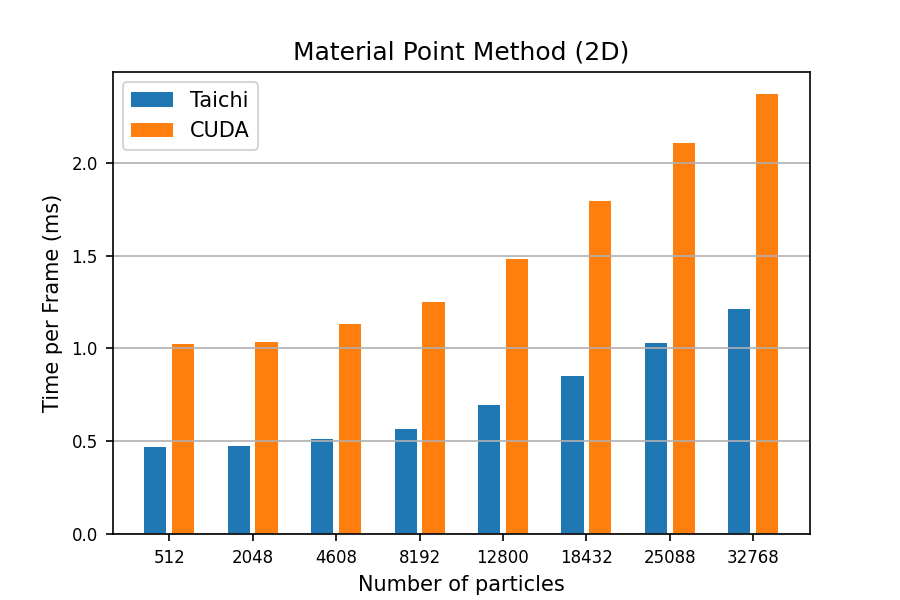
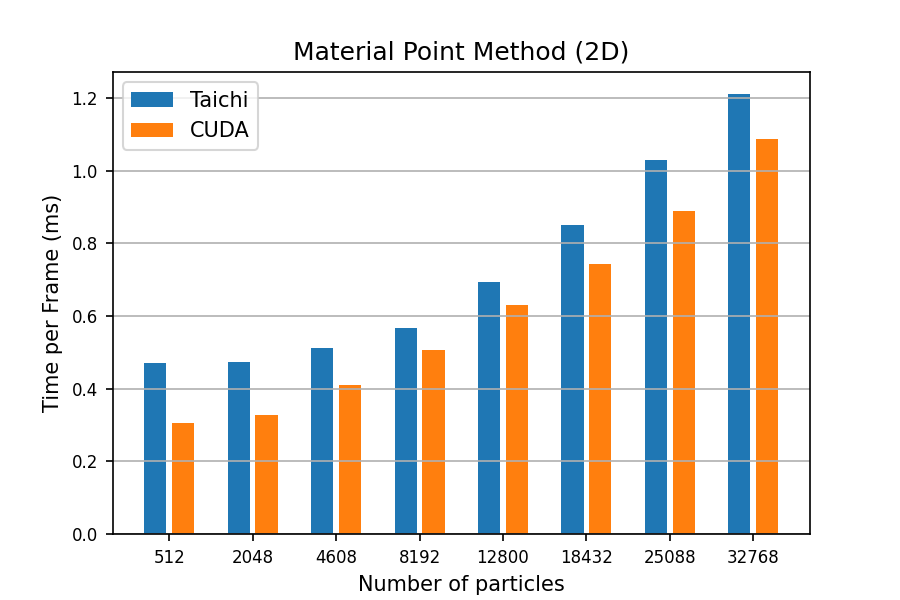
Update mpm results on improved cuda baseline

Changed region(s): [[0.0622, 0.15, 0.9022, 0.78], [0.0622, 0.15, 0.1244, 0.18]]

diff --git a/mpm/misc.py b/mpm/misc.py
@@ -1,55 +1,4 @@
-cuda_sample_results = {
-    'cuda_2d': [{
-        'n_particles': 512,
-        'time_ms': 1.024374
-    }, {
-        'n_particles': 2048,
-        'time_ms': 1.033906
-    }, {
-        'n_particles': 4608,
-        'time_ms': 1.13101
-    }, {
-        'n_particles': 8192,
-        'time_ms': 1.24747
-    }, {
-        'n_particles': 12800,
-        'time_ms': 1.484127
-    }, {
-        'n_particles': 18432,
-        'time_ms': 1.791808
-    }, {
-        'n_particles': 25088,
-        'time_ms': 2.105247
-    }, {
-        'n_particles': 32768,
-        'time_ms': 2.370462
-    }],
-    'cuda_3d': [{
-        'n_particles': 8192,
-        'time_ms': 2.70262
-    }, {
-        'n_particles': 65536,
-        'time_ms': 8.443884
-    }, {
-        'n_particles': 221184,
-        'time_ms': 36.317848
-    }, {
-        'n_particles': 524288,
-        'time_ms': 174.325989
-    }, {
-        'n_particles': 1024000,
-        'time_ms': 565.163757
-    }, {
-        'n_particles': 1769472,
-        'time_ms': 1228.022095
-    }, {
-        'n_particles': 2809856,
-        'time_ms': 2252.36377
-    }, {
-        'n_particles': 4194304,
-        'time_ms': 3472.967773
-    }]
-}
+cuda_sample_results = {'cuda_2d': [{'n_particles': 512, 'time_ms': 0.306909}, {'n_particles': 2048, 'time_ms': 0.328294}, {'n_particles': 4608, 'time_ms': 0.411246}, {'n_particles': 8192, 'time_ms': 0.506373}, {'n_particles': 12800, 'time_ms': 0.631633}, {'n_particles': 18432, 'time_ms': 0.74418}, {'n_particles': 25088, 'time_ms': 0.889422}, {'n_particles': 32768, 'time_ms': 1.087441}], 'cuda_3d': [{'n_particles': 8192, 'time_ms': 0.941462}, {'n_particles': 65536, 'time_ms': 5.481499}, {'n_particles': 221184, 'time_ms': 21.760391}, {'n_particles': 524288, 'time_ms': 99.960159}, {'n_particles': 1024000, 'time_ms': 343.911346}, {'n_particles': 1769472, 'time_ms': 831.018188}, {'n_particles': 2809856, 'time_ms': 1670.747681}, {'n_particles': 4194304, 'time_ms': 2585.545654}]}
 
 taichi_sample_results = {
     'taichi_2d': [{

diff --git a/mpm/plot_benchmark.py b/mpm/plot_benchmark.py
@@ -66,4 +66,4 @@ if __name__ == '__main__':
         taichi_results = taichi_sample_results
     else:
         taichi_results, cuda_results = run_benchmarks()
-    plot_bar(cuda_results, taichi_results, "3d")
+    plot_bar(cuda_results, taichi_results, "2d")

diff --git a/mpm/fig/log.md b/mpm/fig/log.md
@@ -1,0 +1,8 @@
+##Performance bookkeeping 
+
+###CUDA 
+
+Thanks to @Mike-Leo-Smith, the CUDA baseline implementation has been drastically
+improved, the main changes are recorded in [PR #7](https://github.com/taichi-dev/taichi_benchmark/pull/7).
+
+The results on RTX3080 have been updated and replotted here.
